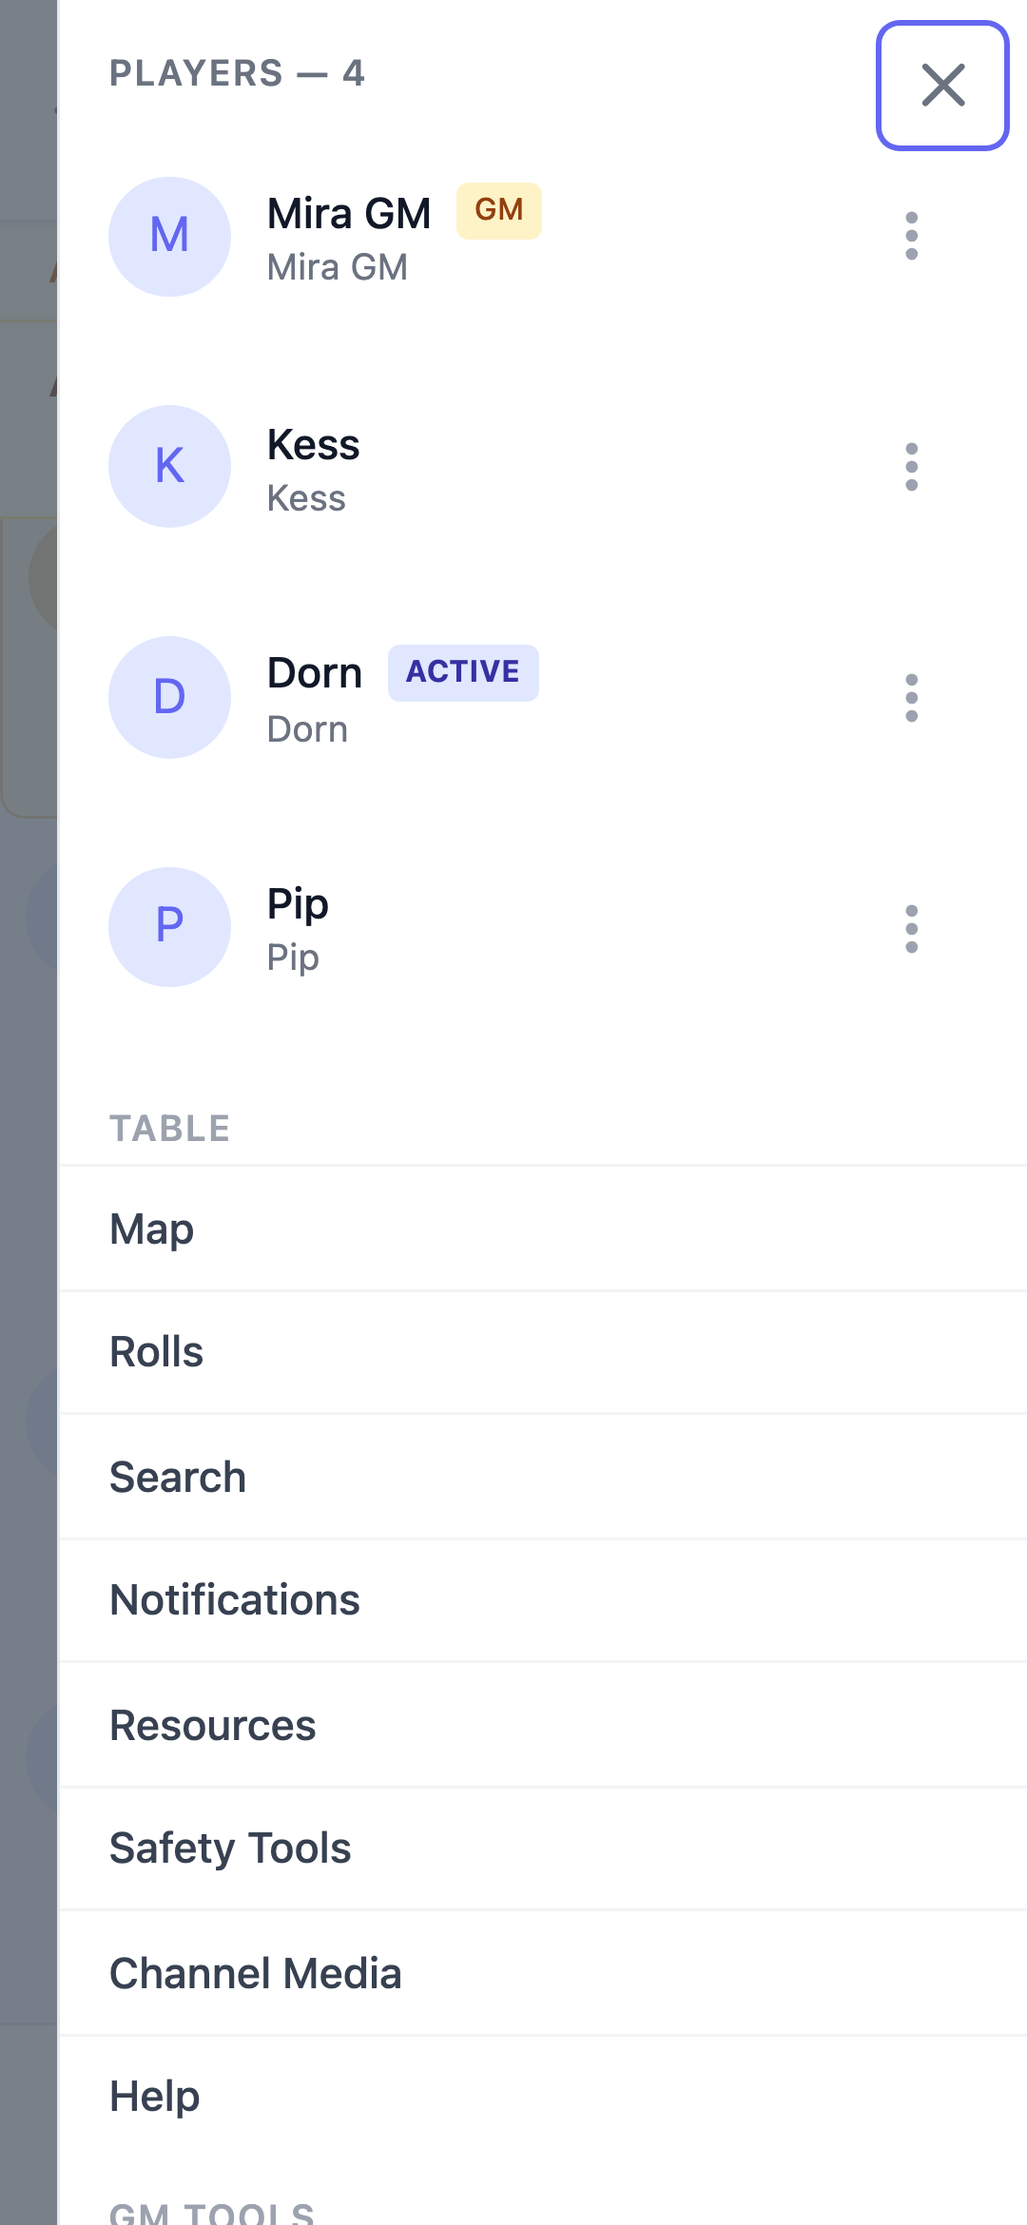
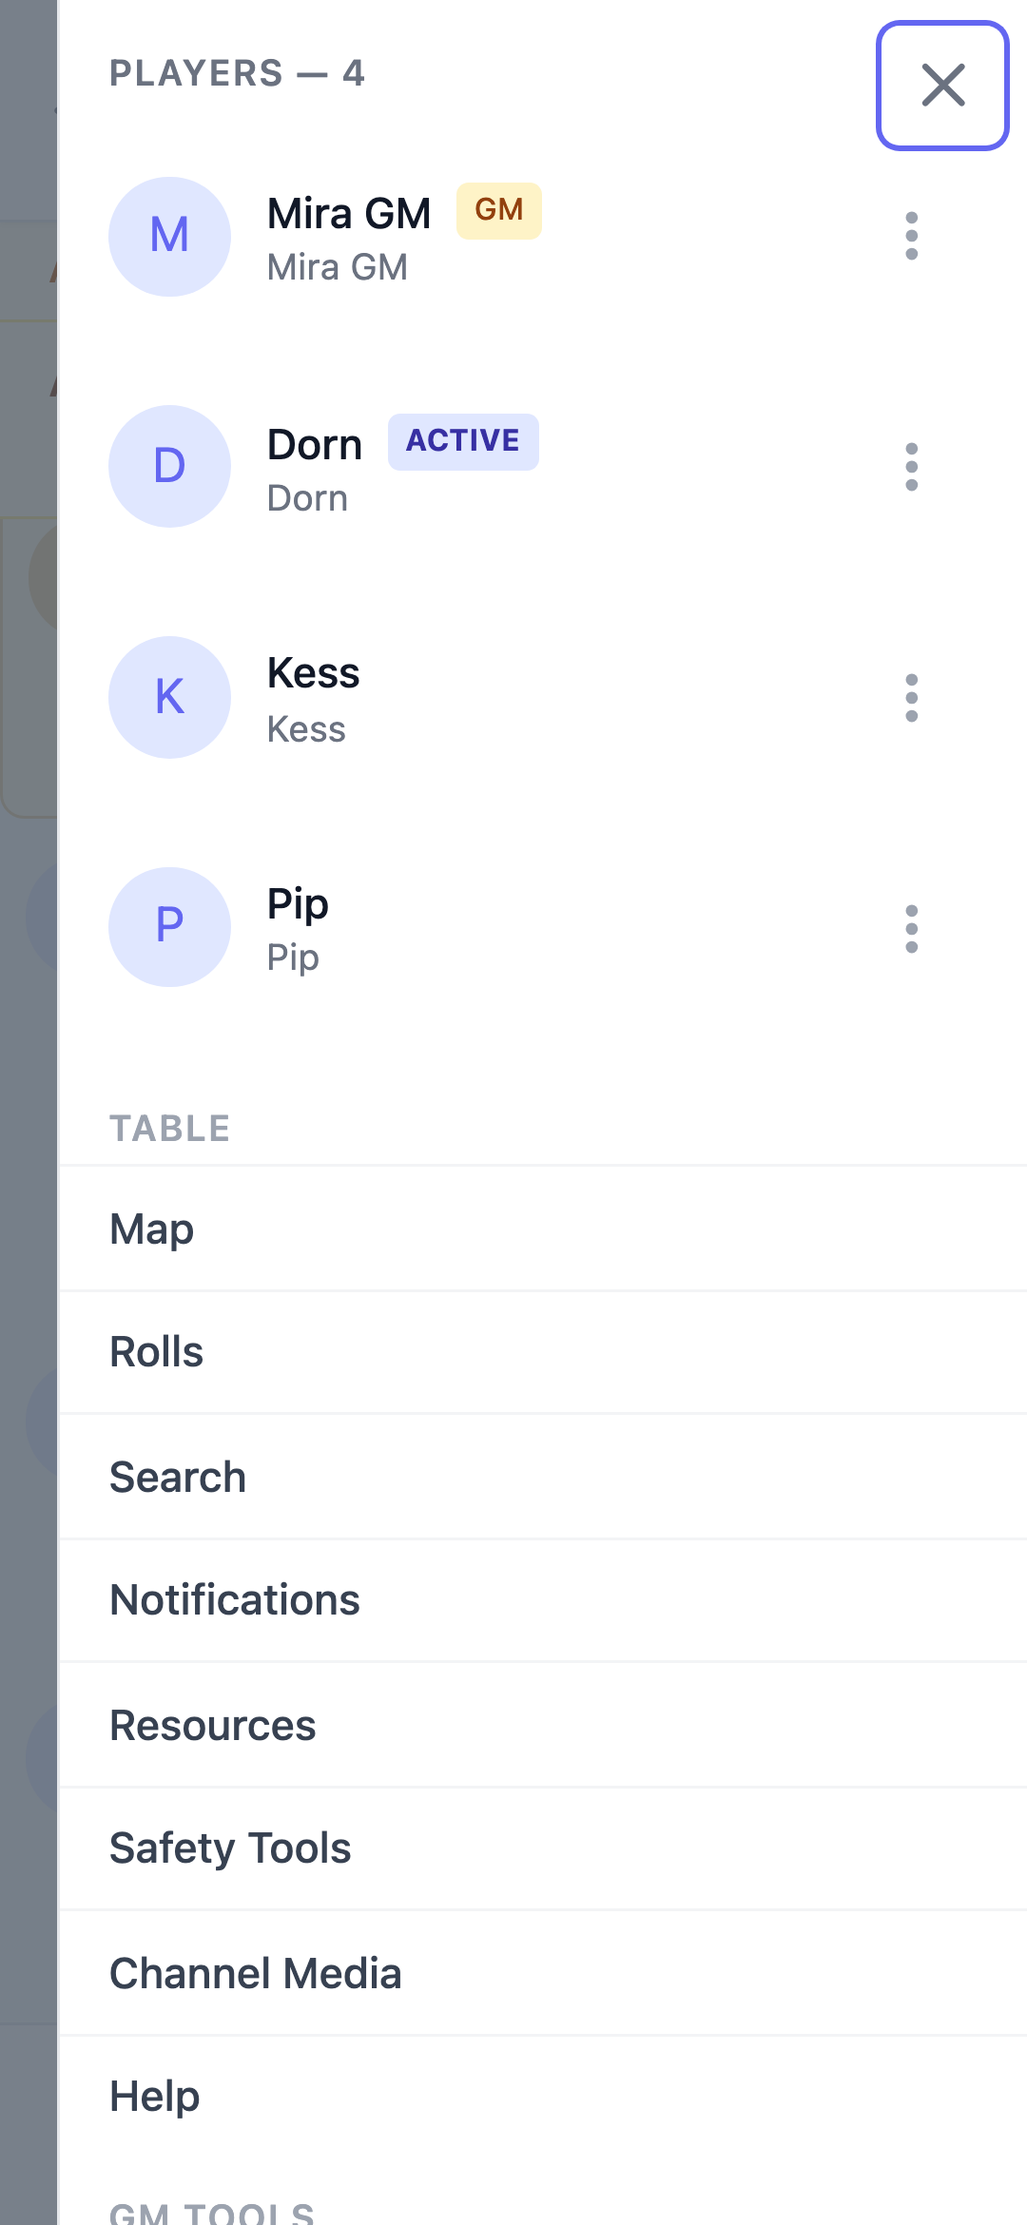
fix(#571): order rosters GM-first, players A-Z (#578)
* fix(#571): order rosters GM-first, players A-Z

Closes #571. New shared sortMembers helper (src/lib/memberOrder.ts): GM pinned first, then character name case-insensitively (same base-sensitivity rule as the @-mention list, #521), user_id tiebreak for determinism since the query has no ORDER BY. Applied to the channel sidebar roster (blocked section name-only, no GM pin), the Active Player modal (GM excluded by the parent, so name-only), and the admin read-only Players roster. Regression tests in each surface, all mutation-checked (fail with the sort removed). Docs: CHANGELOG, FEATURES, in-app help. Regenerated sidebar.png (GM, Dorn, Kess, Pip) via help-screenshots; seed.sql stamps the current terms version for shot users so captures pass the re-consent gate (guard trigger reverts direct writes, so the tx-local confirmation flag is flipped first — bump alongside CURRENT_TERMS_VERSION).

* fix(#571): address review — picker wording, case-only comparator test

diff --git a/src/lib/memberOrder.test.ts b/src/lib/memberOrder.test.ts
@@ -1,0 +1,64 @@
+import { describe, it, expect } from 'vitest'
+import { compareMembers, sortMembers } from './memberOrder'
+
+describe('memberOrder', () => {
+  it('sorts by character name case-insensitively', () => {
+    const members = [
+      { user_id: 'u1', character_name: 'Zara' },
+      { user_id: 'u2', character_name: 'arden' },
+      { user_id: 'u3', character_name: 'Bobby' },
+    ]
+    expect(sortMembers(members).map(m => m.character_name)).toEqual(['arden', 'Bobby', 'Zara'])
+  })
+
+  it('pins the GM first even when the GM name sorts last', () => {
+    const members = [
+      { user_id: 'u1', character_name: 'arden' },
+      { user_id: 'u2', character_name: 'Zara' },
+      { user_id: 'u3', character_name: 'Bobby' },
+    ]
+    expect(sortMembers(members, 'u2').map(m => m.character_name)).toEqual(['Zara', 'arden', 'Bobby'])
+  })
+
+  it('falls back to name order when the GM is not in the list or no gmId is given', () => {
+    const members = [
+      { user_id: 'u1', character_name: 'Zara' },
+      { user_id: 'u2', character_name: 'arden' },
+    ]
+    const expected = ['arden', 'Zara']
+    expect(sortMembers(members, 'u9').map(m => m.character_name)).toEqual(expected)
+    expect(sortMembers(members, null).map(m => m.character_name)).toEqual(expected)
+    expect(sortMembers(members).map(m => m.character_name)).toEqual(expected)
+  })
+
+  it('breaks name ties deterministically by user_id', () => {
+    const members = [
+      { user_id: 'u2', character_name: 'Hero' },
+      { user_id: 'u1', character_name: 'Hero' },
+    ]
+    const expected = ['u1', 'u2']
+    expect(sortMembers(members).map(m => m.user_id)).toEqual(expected)
+    expect(sortMembers(members).map(m => m.user_id)).toEqual(expected)
+  })
+
+  it('does not mutate the input array', () => {
+    const members = [
+      { user_id: 'u1', character_name: 'Zara' },
+      { user_id: 'u2', character_name: 'arden' },
+    ]
+    const result = sortMembers(members)
+    expect(result).not.toBe(members)
+    expect(members.map(m => m.character_name)).toEqual(['Zara', 'arden'])
+  })
+
+  it('returns an empty array for an empty input', () => {
+    expect(sortMembers([], 'u1')).toEqual([])
+  })
+
+  it('exposes a comparator that ignores case', () => {
+    expect(compareMembers({ user_id: 'a', character_name: 'bobby' }, { user_id: 'b', character_name: 'Arden' })).toBeGreaterThan(0)
+    // Same user_id so the user_id fallback cannot decide: names differing
+    // only by case must compare equal.
+    expect(compareMembers({ user_id: 'a', character_name: 'arden' }, { user_id: 'a', character_name: 'Arden' })).toBe(0)
+  })
+})

diff --git a/src/features/channels/MemberList.test.tsx b/src/features/channels/MemberList.test.tsx
@@ -562,4 +562,38 @@ describe('MemberList', () => {
 
     expect(screen.getByText('Wary of goblins.')).toBeInTheDocument()
   })
+
+  it('lists the GM first, then players by character name case-insensitively (#571)', () => {
+    const members: any[] = [
+      { id: 'm1', user_id: 'u1', character_name: 'Zara', is_blocked: false, profile: { display_name: 'Player One' } },
+      { id: 'm2', user_id: 'u2', character_name: 'arden', is_blocked: false, profile: { display_name: 'Player Two' } },
+      { id: 'm3', user_id: 'u3', character_name: 'Bobby', is_blocked: false, profile: { display_name: 'Player Three' } },
+      { id: 'm4', user_id: 'u4', character_name: 'Grandmaster', is_blocked: false, profile: { display_name: 'The GM' } },
+    ]
+    render(<StatefulMemberList members={members} isGM={true} gmId="u4" myUserId="u2" channelId="c1" onUpdate={vi.fn()} />, { wrapper: MemoryRouter })
+
+    // The GM row keeps the accessibility label as its probe: the button order
+    // follows the DOM order of the roster.
+    const labels = screen.getAllByRole('button', { name: /Member options for/ }).map(b => b.getAttribute('aria-label'))
+    expect(labels).toEqual([
+      'Member options for Grandmaster',
+      'Member options for arden',
+      'Member options for Bobby',
+      'Member options for Zara',
+    ])
+  })
+
+  it('lists blocked members by character name (#571)', () => {
+    const members: any[] = [
+      { id: 'm1', user_id: 'u1', character_name: 'Zara', is_blocked: true, profile: { display_name: 'Player One' } },
+      { id: 'm2', user_id: 'u2', character_name: 'arden', is_blocked: true, profile: { display_name: 'Player Two' } },
+      { id: 'm3', user_id: 'u3', character_name: 'Hero', is_blocked: false, profile: { display_name: 'Player Three' } },
+    ]
+    render(<StatefulMemberList members={members} isGM={true} gmId="u3" myUserId="u3" channelId="c1" onUpdate={vi.fn()} />, { wrapper: MemoryRouter })
+
+    expect(screen.getByText('Blocked — 2')).toBeInTheDocument()
+    const blockedHeading = screen.getByText('Blocked — 2').closest('div')!.parentElement!
+    const names = Array.from(blockedHeading.querySelectorAll('ul p')).map(p => p.textContent)
+    expect(names.filter(n => n === 'arden' || n === 'Zara')).toEqual(['arden', 'Zara'])
+  })
 })

diff --git a/src/features/admin/AdminChannelView.tsx b/src/features/admin/AdminChannelView.tsx
@@ -4,6 +4,7 @@ import { useIsServerAdmin } from '../../hooks/useIsServerAdmin'
 import { Markdown } from '../../components/Markdown'
 import { SignedImg } from '../../components/SignedImg'
 import { useAdminChannelMessages, type AdminChannelMessage } from './useAdminChannelMessages'
+import { sortMembers } from '../../lib/memberOrder'
 
 // Pure link sanitizer; hoisted so ReactMarkdown gets a stable reference.
 // Mirrors the chat urlTransform minus the dice/check/user chips, which are
@@ -62,6 +63,14 @@ export function AdminChannelView() {
       />
     ),
   }), [])
+
+  // Same roster order as the channel sidebar (#571): GM first, then players
+  // by character name A-Z case-insensitively. channel is still possibly null
+  // here (the early return below runs after hooks), hence the optional chain.
+  const orderedMembers = useMemo(
+    () => sortMembers(members, channel?.gm_id ?? null),
+    [members, channel?.gm_id],
+  )
 
   useEffect(() => {
     if (loadOlderHeightRef.current !== null) {
@@ -140,7 +149,7 @@ export function AdminChannelView() {
               <p className="text-surface-500">No players yet.</p>
             ) : (
               <ul className="space-y-1.5">
-                {members.map(member => (
+                {orderedMembers.map(member => (
                   <li key={member.user_id} className="flex items-center gap-2 min-w-0">
                     <span className="font-medium text-surface-900 dark:text-surface-100 truncate">{member.character_name}</span>
                     {member.display_name && member.display_name !== member.character_name && (

diff --git a/src/features/channels/ActivePlayerModal.tsx b/src/features/channels/ActivePlayerModal.tsx
@@ -1,8 +1,9 @@
 import { Avatar } from '../../components/Avatar'
-import { useRef, useState } from 'react'
+import { useRef, useState, useMemo } from 'react'
 import { useEscapeToClose } from '../../hooks/useEscapeToClose'
 import { useFocusTrap } from '../../hooks/useFocusTrap'
 import { useActivePlayers } from './useActivePlayers'
+import { sortMembers } from '../../lib/memberOrder'
 
 interface SelectableMember {
   id: string
@@ -33,6 +34,10 @@ export function ActivePlayerModal({ channelId, members, currentActiveIds, onClos
   const [error, setError] = useState<string | null>(null)
 
   const { setActivePlayers } = useActivePlayers()
+
+  // #571: same roster order as the sidebar — players by character name A-Z
+  // case-insensitively. The parent excludes the GM, so no GM pin applies.
+  const orderedMembers = useMemo(() => sortMembers(members), [members])
 
   const toggle = (userId: string) => {
     setSelected(prev => prev.includes(userId) ? prev.filter(id => id !== userId) : [...prev, userId])
@@ -83,7 +88,7 @@ export function ActivePlayerModal({ channelId, members, currentActiveIds, onClos
           <p className="text-sm text-gray-500 dark:text-gray-400 py-4">No other players in this channel yet.</p>
         ) : (
           <ul className="space-y-2 mb-4">
-            {members.map(m => {
+            {orderedMembers.map(m => {
               const checked = selected.includes(m.user_id)
               return (
                 <li key={m.id}>

diff --git a/src/features/admin/AdminChannelView.test.tsx b/src/features/admin/AdminChannelView.test.tsx
@@ -247,8 +247,25 @@ describe('AdminChannelView', () => {
     expect(screen.getByText('Blocked')).toBeInTheDocument()
   })
 
-  it('hides a display name identical to the character name', async () => {
+  it('lists the Players roster with the GM first, then players by character name (#571)', async () => {
     vi.mocked(useAdminChannelMessages).mockReturnValue(baseHook({
+      channel: { ...baseChannel, gm_id: 'u2' },
+      members: [
+        { user_id: 'u1', display_name: 'Alice', character_name: 'Alicia the Bold', is_blocked: false, is_active_player: false },
+        { user_id: 'u2', display_name: 'Zed', character_name: 'Zed', is_blocked: false, is_active_player: false },
+        { user_id: 'u3', display_name: 'Bob', character_name: 'Bobby', is_blocked: false, is_active_player: true },
+      ],
+    }) as any)
+
+    renderView()
+
+    expect(await screen.findByText('Players (2)')).toBeInTheDocument()
+    const items = screen.getAllByRole('listitem')
+    const names = items.map(li => (li.querySelector('span') as HTMLElement).textContent)
+    expect(names).toEqual(['Zed', 'Alicia the Bold', 'Bobby'])
+  })
+
+  it('hides a display name identical to the character name', async () => {    vi.mocked(useAdminChannelMessages).mockReturnValue(baseHook({
       members: [
         { user_id: 'u2', display_name: 'Bobby', character_name: 'Bobby', is_blocked: false, is_active_player: false },
       ],

diff --git a/src/features/channels/ActivePlayerModal.test.tsx b/src/features/channels/ActivePlayerModal.test.tsx
@@ -88,6 +88,24 @@ describe('ActivePlayerModal', () => {
     expect(screen.getByText('No other players in this channel yet.')).toBeInTheDocument()
   })
 
+  it('lists players by character name case-insensitively (#571)', () => {
+    const unordered: any[] = [
+      { id: 'm1', user_id: 'u1', character_name: 'Zara', profile: { display_name: 'P1' } },
+      { id: 'm2', user_id: 'u2', character_name: 'arden', profile: { display_name: 'P2' } },
+      { id: 'm3', user_id: 'u3', character_name: 'Bobby', profile: { display_name: 'P3' } },
+    ]
+    render(<ActivePlayerModal channelId="c1" members={unordered} currentActiveIds={[]} onClose={vi.fn()} onSaved={vi.fn()} />)
+
+    // The checkbox accessible name comes from the wrapping label, so its DOM
+    // order is the rendered roster order.
+    const labels = screen.getAllByRole('checkbox').map(c => (c.closest('label') as HTMLElement).textContent)
+    expect(labels).toEqual([
+      expect.stringContaining('arden'),
+      expect.stringContaining('Bobby'),
+      expect.stringContaining('Zara'),
+    ])
+  })
+
   it('closes on Escape', () => {
     const onClose = vi.fn()
     render(<ActivePlayerModal channelId="c1" members={members} currentActiveIds={[]} onClose={onClose} onSaved={vi.fn()} />)

diff --git a/src/features/channels/MemberList.tsx b/src/features/channels/MemberList.tsx
@@ -1,7 +1,8 @@
-import { useState, useEffect } from 'react'
+import { useState, useEffect, useMemo } from 'react'
 import { useNavigate } from 'react-router-dom'
 import type { Database } from '../../types/database'
 import { MAX_AWAY_MESSAGE_LENGTH } from '../../constants'
+import { sortMembers } from '../../lib/memberOrder'
 
 import { EditCharacterModal } from './EditCharacterModal'
 import { SignedImg } from '../../components/SignedImg'
@@ -153,8 +154,16 @@ export function MemberList({ members, isGM, gmId, myUserId, gameSystem = 'none',
     }
   }
 
-  const activeMembers = members.filter(m => !m.is_blocked)
-  const blockedMembers = members.filter(m => m.is_blocked)
+  // #571: roster order — GM first, then players by character name A-Z
+  // (case-insensitive); the blocked section is name-only, no GM pin.
+  const activeMembers = useMemo(
+    () => sortMembers(members.filter(m => !m.is_blocked), gmId),
+    [members, gmId],
+  )
+  const blockedMembers = useMemo(
+    () => sortMembers(members.filter(m => m.is_blocked)),
+    [members],
+  )
 
   return (
     <div className="py-4">

diff --git a/src/lib/memberOrder.ts b/src/lib/memberOrder.ts
@@ -1,0 +1,22 @@
+// Shared member-roster ordering (#571): the GM first, then everyone else by
+// character name A-Z case-insensitively — the same base-sensitivity rule the
+// mention list uses (#521). Ties fall back to user_id because the DB query
+// has no ORDER BY, so the input order can vary between refetches.
+export interface OrderableMember {
+  user_id: string
+  character_name: string
+}
+
+export function compareMembers(a: OrderableMember, b: OrderableMember): number {
+  return (
+    a.character_name.localeCompare(b.character_name, undefined, { sensitivity: 'base' })
+    || a.user_id.localeCompare(b.user_id)
+  )
+}
+
+// Returns a new array; never mutates the input. Without a gmId (or when the
+// GM is not in the list) the whole list is sorted by character name.
+export function sortMembers<T extends OrderableMember>(members: readonly T[], gmId?: string | null): T[] {
+  const rank = gmId ? (m: T) => (m.user_id === gmId ? 0 : 1) : () => 0
+  return [...members].sort((a, b) => rank(a) - rank(b) || compareMembers(a, b))
+}

diff --git a/docs/FEATURES.md b/docs/FEATURES.md
@@ -11,11 +11,12 @@
 - Per-channel **character name** (max 20 characters) and **avatar**
 - **Character modifiers** — per-game-system attribute modifier fields (e.g. STR/DEX) with −/+ stepper buttons (iOS has no signed numeric keypad, so stepping avoids the keyboard entirely); inputs accept integers only (floats/exponents/stray characters are rejected), start at 0, show the valid range in a subtitle, flag out-of-range values with a red border and block saving until corrected; legacy invalid stored values are reset to 0 when loaded
 - **Character notes** — a plain-text notes field per player (backstory, reminders), shown in the member list
+- **Member list ordering** — the channel roster lists the GM first, then players alphabetically by character name (blocked members sit in their own section, also alphabetically); the GM's Active Player picker follows the same name order
 - Optional **character sheet URL** per user per channel
 - **Server admin flag** (`profiles.server_admin`, managed via DB) — exempts the user from the channel limit; enforced to a single admin
 - **Server Admin view** (`/admin`, via the "Server Admin" menu item, visible only to `server_admin`):
   - **Users tab** — display name, total active channels, joined date. Search by name or email and filter by status (All / Active / Inactive / Suspended; Inactive = no login in 30+ days or never). Click a row to open a detail view with email + verification, identity provider, role/status badges, last login, last activity, message count, channel memberships (character name + blocked flag), moderation history, the user's recent messages, and the suspend/unsuspend action with an optional reason.
-  - **Channels tab** — name, game system, member count, created and last-active dates; orphaned channels (GM deleted their account) show an **Orphaned** badge with a **Claim** action that makes the admin the new GM. Clicking a channel name opens a **read-only view** of its messages (sender, character/NPC/whisper/deleted labels, older pages on demand) plus a collapsible **Players** roster listing each member's character name with GM / active-player / blocked labels; the admin cannot send messages there, and every such read is written to the audit log
+  - **Channels tab** — name, game system, member count, created and last-active dates; orphaned channels (GM deleted their account) show an **Orphaned** badge with a **Claim** action that makes the admin the new GM. Clicking a channel name opens a **read-only view** of its messages (sender, character/NPC/whisper/deleted labels, older pages on demand) plus a collapsible **Players** roster listing each member's character name with GM / active-player / blocked labels, ordered with the GM first and players alphabetically; the admin cannot send messages there, and every such read is written to the audit log
   - **Reports tab** — every player report with the reporter, reported user, reason, channel, and date, plus an **Open / Actioned / Dismissed** status. A new report also posts into the admin's **System** thread in Messages so it can't sit unseen. An open report can be **suspended** (suspends the reported user and marks the report actioned in one step), **resolved** (actioned without suspending), or **dismissed**; each decision is written to the moderation audit log. A **View message** action opens the reported message itself, and every such read is written to the audit log.
   - **Sortable tables** — click any Users/Channels column header to sort asc/desc (toggle on repeat click); tables scroll horizontally on mobile instead of cropping
   - **Settings tab** — edit **Maximum Channels per user** (minimum 10; persists in `app_settings`). Users already over a lowered limit keep their channels. Also configures **Image Uploads**: a master **allow image uploads** toggle (off by default to keep the server at near-zero cost), a **maximum image size** (1–50 MB), and an **auto-delete images older than (days)** retention (0 = keep forever; a daily `cleanup-images` edge function prunes older uploads). Uploads are scanned before storage: the `scan-upload` edge function hashes each image and checks it against known illegal material, blocking the upload (and suspending the uploader) on a match, and it caps how many uploads one user can attempt per hour. The scan needs the `SAFER_API_KEY` secret; while it is unset, uploads are refused rather than stored unscanned.

diff --git a/docs/help/channel/sidebar.md b/docs/help/channel/sidebar.md
@@ -13,7 +13,7 @@ The sidebar groups items by who uses them:
 
 **Table** — available to everyone:
 
-- **Member List** — everyone in the channel, with role badges, AFK states, and character info
+- **Member List** — everyone in the channel, with role badges, AFK states, and character info; the GM is always at the top and players are listed alphabetically by character name
 - **Notifications** — configure what you're notified about for this channel
 - **Safety Tools** — view the channel's Lines & Veils, or press the X-Card
 - **Channel Media** — browse every image shared in this channel and view one fullscreen

diff --git a/docs/CHANGELOG.md b/docs/CHANGELOG.md
@@ -2,6 +2,12 @@
 
 All notable changes to this project are documented in this file.
 
+## 2026-09-22
+
+### Fixed
+
+- **Player lists show the GM at the top, then players A–Z** — the channel sidebar roster and the admin channel view now list the GM first and everyone else by character name; the Active Player picker (which excludes the GM) lists its players by character name too, so the same people appear in the same order everywhere.
+
 ## 2026-09-21
 
 ### Added
